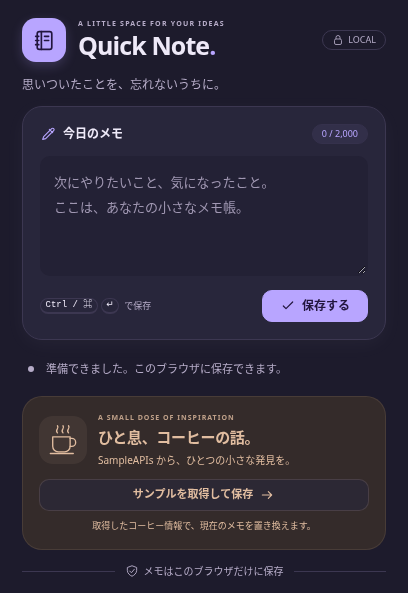
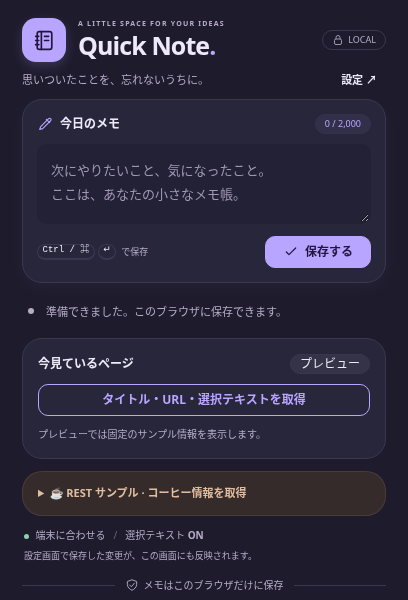
docs: explain extension contexts and demonstrate settings flows

diff --git a/docs/extension.md b/docs/extension.md
@@ -1,0 +1,154 @@
+# 拡張のサンプルと実行環境
+
+## 今あるサンプル
+
+- ツールバーから開くポップアップ: メモ保存、REST 取得、現在のページ情報の表示。
+- 設定画面: テーマ・選択テキスト取得の保存と、確認付きリセット。
+- ストレージ変更の購読: 別画面で保存した設定を再読み込みなしで反映。
+- content script: クリック時にページのタイトル・URL・選択テキストを取得。
+
+設定・メモは拡張では `chrome.storage.local`、ブラウザプレビューでは `localStorage` に保存します。
+両者のデータは共有しません。ページ取得結果はポップアップ内の表示だけに使い、保存・外部送信はしません。
+
+## 設定とリセットを試す
+
+1. `pnpm run dev` を起動し、表示された URL の `/options.html` を開く。
+2. 「表示確認用ページを開く」で `/index.html` をもう一つのタブまたはウィンドウに開く。
+3. 設定画面でテーマを「ダーク」、選択テキスト取得を OFF にして保存する。
+4. 表示確認用ページへ戻ると、再読み込みせず配色と設定表示が変わる。
+5. 設定画面を再読み込みしても保存した値が残る。
+6. 「リセット」を押し、「初期設定に戻しますか？」でキャンセルすると設定は変わらない。
+7. 確定するとテーマは「端末に合わせる」、選択テキスト取得は ON に戻る。メモは消えない。
+
+選択テキストを OFF にすると、取得済みの選択テキストも表示から取り除きます。
+編集中のメモは設定通知で上書きしません。設定画面自体に未保存の入力がある場合も入力を保持し、
+他画面で変更されたことを知らせます。その後の保存は現在のフォームで上書きします。
+複数画面での同時保存は最後の書き込みが優先され、トランザクションや競合の自動マージはありません。
+
+本物の Chrome ポップアップは、別画面を操作すると閉じます。
+並べて変化を確認するためのリンクは、同じ UI を通常のタブで開きます。
+拡張の通常の起動方式は `action.default_popup` です。
+
+## UI が追従する仕組み
+
+```mermaid
+sequenceDiagram
+  participant Options as 設定画面
+  participant Storage as ストレージ
+  participant Popup as 開いているポップアップUI
+  Options->>Storage: 検証済みの設定を保存
+  Storage-->>Popup: 設定キーの変更通知
+  Popup->>Popup: 保存形式を検証
+  Popup->>Popup: テーマ・設定表示を更新
+```
+
+Chrome では `chrome.storage.onChanged`、プレビューでは別ドキュメントに届く `storage` イベントを使います。
+保存した画面自身は、保存 UseCase の返り値を使って表示を更新します。
+購読は初期読み出しより先に登録し、遅れて返った初期値で新しい通知を上書きしないようにしています。
+画面を破棄すると購読を解除します。保存データが不正なら通知を表示せずエラーを知らせます。
+
+`SettingsChanges` は UI 向けの通知ポートです。イベント処理を UseCase のシーケンスに混ぜません。
+`features/settings/gateways/storage.ts` が保存・復元・変更通知に同じ保存形式の検証を適用します。
+操作の入力検証は `controllers/load.ts`・`save.ts`・`reset.ts` がそれぞれ所有します。
+リセットの controller は `{ confirmed: true }` のみ受け付けます。
+設定の保存形式は `{ version: 1, theme, includeSelection }`。未保存なら初期値、不明な形式ならエラーです。
+現在は過去形式の移行処理を持ちません。形式を変える際は、この gateway にバージョン移行を追加してください。
+
+## content script とは
+
+閲覧中の Web ページ内で動く拡張のコードです。ページの DOM を読む、文章の選択を取得する、
+必要に応じてページへ UI を追加する、といった処理を担当します。
+ポップアップは別のドキュメントなので、そこから閲覧中のページの DOM を直接読むことはできません。
+通常はページの JavaScript と分離された isolated world で動き、DOM は共有します。
+画面要素の変更検知も content script の担当です。`MutationObserver` で検知し、必要なら
+service worker にメッセージで保存や通知を依頼します。worker 自身は DOM を監視できません。
+
+このサンプルは `src/content/page.ts` の自己完結した関数を、
+`chrome.scripting.executeScript` の `func` としてクリック時に実行します。
+宣言型の `content_scripts` や別ファイルの常駐スクリプトは登録していません。
+Chrome は関数をコピーして実行するため、関数内から拡張側の変数や import を参照しないでください。
+
+処理経路は「capture controller → 設定を読み出す UseCase → Chrome gateway → ページ内の関数 → 応答検証」です。
+拡張を操作したタブへの一時的な許可 `activeTab` と、関数を実行する `scripting` を使います。
+ページ取得用の全サイト常時アクセス権限は要求しません。
+
+| ケース | このサンプルの動作 |
+| --- | --- |
+| 通常の HTTP(S) ページ | メインフレームのタイトル・URL・選択テキストを返す |
+| 選択なし／選択テキスト取得 OFF | 選択テキストは空。OFF なら選択自体を読まない |
+| input / textarea / contenteditable にフォーカス中 | フォームや編集領域の選択テキストを取得しない |
+| 長いタイトル／選択テキスト | タイトルは 512 文字、選択は 2,000 文字まで。選択の省略を画面に明示 |
+| chrome://、拡張自身、file:// など | 対象外としてエラーを表示 |
+| Chrome Web Store 等の保護ページ、タブ消失・権限失効 | 注入失敗を画面に表示 |
+| iframe 内の選択、PDF ビューアー、特殊なページ | 対応対象外。全フレーム取得や専用 API は未実装 |
+| SPA の画面遷移 | ボタンを押した時点の値を読む。自動監視はしない |
+
+あらゆるページに対応したスクレイピング実装ではありません。派生プロジェクトでは、
+対象サイト・フレーム・取得範囲・権限を決めて gateway と content script を拡張してください。
+ページ由来の文字列は `textContent` で表示し、HTML として挿入しません。
+
+## service worker とは
+
+Manifest V3 で拡張のバックグラウンド処理を担当する、イベント駆動の実行環境です。
+ポップアップを閉じていても、登録したイベントをきっかけに起動できます。
+ページの DOM は持たず、常駐プロセスでもありません。処理がなくなると停止し、後で再起動します。
+長時間のタスクが常に動き続ける保証はありません。
+
+主な用途は次の通りです。
+
+- `chrome.alarms` を契機に情報を取得する。
+- `chrome.contextMenus` の右クリック操作を処理する。
+- content script からの要求を受け、拡張側の API 操作や保存をまとめて処理する。
+- タブの作成・更新などのブラウザイベントを処理する。
+- 拡張のインストール・更新時の初期化を行う。
+
+タイマーやグローバル変数だけに永続状態を保持せず、必要な状態は storage に保存します。
+再起動後にイベントを受けられるよう、リスナーはスクリプトのトップレベルで登録します。
+
+### メッセージ通信は何のためか
+
+通常は「service worker 同士」ではなく、**ポップアップ／content script と service worker の間**の通信です。
+実行場所ごとに使える DOM・API と生存期間が異なるため、メッセージで処理を依頼し、結果を返します。
+
+例えば、ページで選んだ文章を外部 API で変換して表示する拡張なら、次の構成が考えられます。
+これは派生機能の設計例で、現在のベースには未搭載です。
+
+```mermaid
+sequenceDiagram
+  participant Content as content script
+  participant Worker as service worker
+  participant API as 外部API
+  Content->>Worker: runtime.sendMessage（文章・要求種別）
+  Worker->>Worker: 送信元・入力を検証
+  Worker->>API: host_permissions のある接続先へ取得要求
+  API-->>Worker: 応答
+  Worker->>Worker: 応答検証・必要なら保存
+  Worker-->>Content: 成功データまたはエラー
+  Content->>Content: 応答を検証してDOMへ表示
+```
+
+一回の要求と応答は `runtime.sendMessage`、worker から特定タブへ送るなら `tabs.sendMessage`、
+継続的なやり取りなら `runtime.connect` の port を検討します。
+型定義だけで信頼せず、受信時に入力と送信元、呼び出し元でも応答を検証します。
+失敗・タイムアウト・ページ遷移時の切断も扱う必要があります。
+
+今回のサンプルは、ポップアップからの一回のページ取得と、storage の変更通知で完結します。
+そのため service worker や独自メッセージ通信を追加していません。
+REST API を呼ぶことだけを理由に service worker を必須にはしていません。
+
+## 検証範囲
+
+Vitest は設定の保存・リセット・失敗時の維持、変更通知の出力、ページ応答・制限を確認します。
+Chromium の通常ブラウザプレビューでは、設定とポップアップ UI を別ページで開き、
+保存・永続化・キャンセル／確定・通知反映・入力保持・設定破損からの復旧を確認しています。
+ページ情報取得関数も通常ページの DOM で確認しています。
+
+このクラウド環境では追加拡張の読み込みが管理ポリシーで禁止されているため、
+`activeTab` の許可・実際の `executeScript` 注入・拡張版 storage 通知・ツールバーポップアップの実動作は未検証です。
+プレビューの取得ボタンは固定データを返し、「プレビュー」と明記します。
+実装は拡張用にも用意してあり、権限が許可された Chrome で `dist/` を読み込んで確認できます。
+
+参考: [content scripts](https://developer.chrome.com/docs/extensions/develop/concepts/content-scripts)、
+[service workers](https://developer.chrome.com/docs/extensions/develop/concepts/service-workers)、
+[messaging](https://developer.chrome.com/docs/extensions/develop/concepts/messaging)、
+[activeTab](https://developer.chrome.com/docs/extensions/develop/concepts/activeTab)。

diff --git a/docs/architecture.md b/docs/architecture.md
@@ -25,6 +25,9 @@ src/
 │   │   ├── rest.ts            メモ形式の REST サービスとの接続
 │   │   └── mock.ts            取得元のモック
 │   └── compose.ts             controller と UseCase の接続
+├── features/settings/        設定操作・保存形式・変更通知（同じ役割分け）
+├── features/page/            ページ取得（同じ役割分け）
+├── content/page.ts           ページ内で動く自己完結した関数
 ├── integrations/sampleapis/
 │   └── coffee.ts              Coffee 取得の型・通信・境界検証
 ├── infrastructure/
@@ -184,3 +187,19 @@ UI の責務と daisyUI の設定は [UI ガイド](ui.md) を参照してくだ
 
 ディレクトリ名に唯一の標準はありません。ヘキサゴナルで必要な依存方向を守り、
 この規模で責務を追える配置を選んでいます。
+
+## 設定とページ取得の境界
+
+`settings` と `page` も controller / UseCase / gateway を同じ深さに配置しています。
+設定の load / save / reset、ページの capture はそれぞれ専用の controller で入力を検証します。
+ページ取得 UseCase は「設定を読み出す → reader を呼ぶ」のシーケンスだけを持ちます。
+`CapturePreferences` はページ取得側の port で、設定機能の具体実装には依存しません。
+composition が設定 repository を明示的に注入します。
+
+`StorageChanges` は保存基盤の通知、`SettingsChanges` は検証済みの設定を UI に届ける port です。
+通知の購読は UI に属し、UseCase の順次処理から独立しています。
+UI は port と型に依存し、Chrome API や storage driver を直接扱いません。
+ページ内の DOM アクセスは `content/page.ts` だけに閉じ込め、Chrome gateway が注入と応答検証を担当します。
+
+設定のリセット確認・変更通知の流れ・content script と service worker の説明は
+[拡張サンプルのガイド](extension.md) にまとめています。

diff --git a/docs/screenshots/README.md b/docs/screenshots/README.md
@@ -2,9 +2,11 @@
 
 - `popup-light.png`: ライトテーマの初期表示。
 - `popup-dark.png`: ダークテーマの初期表示。
+- `options-light.png` / `options-dark.png`: 設定画面の初期表示。
 - 取得日: 2026-10-31（日本時間）。
 - 対象: `pnpm run build` で生成した `dist/` のブラウザプレビュー。
-- ブラウザ: Chromium、幅 408 px、デバイススケール 1。
+- ブラウザ: Chromium 154.0.8037.57、デバイススケール 1。
+- ポップアップは幅 408 px、高さ上限 600 px の body。設定画面は幅 1100 px の全ページ。
 - 保存データがない新しいブラウザコンテキストを使用し、初期読み込み完了後の body を撮影。
 - カラースキームを light / dark に切り替えて撮影。表示の加工・合成は行っていません。
 
